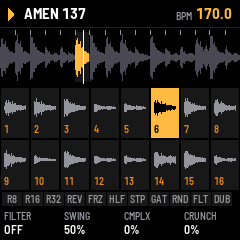
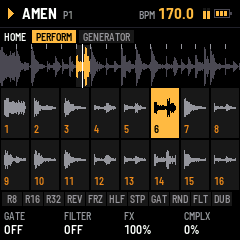
Docs: every screenshot from the current firmware, and a tool to keep it so
All 30 manual pictures, the README's two composites and the Firmware Hub card retaken
from the host scenarios, so they show the new header (and GLOBAL's SPLIT tab, the split's
pictures all AMEN + THINK). screen-reverb.png, an FX view that no longer exists and that
nothing linked to, removed. split.txt takes its layer before ALGORITHM changes the breaks.

tools/doc_shots.py: runs every scenario and refreshes each picture from its shot (MAP),
builds the composites and the card; --check lists stale ones (now: 33 pictures, 0 differ).

Claude-Session: https://claude.ai/code/session_01YWuRNsqx2jn29SjM4TGVKN

diff --git a/tools/doc_shots.py b/tools/doc_shots.py
@@ -1,0 +1,108 @@
+#!/usr/bin/env python3
+# SPDX-License-Identifier: MPL-2.0
+# The manual's and the README's screenshots, from the host scenarios: runs every tests/scenarios/*.txt in the host
+# simulator, then copies each picture the docs show from the scenario shot it comes from (MAP), builds the README's
+# two composites and the Firmware Hub card. Run it after any change to what the screen draws, so every picture shows
+# the same firmware. Needs ./build.sh --host first.
+#   tools/doc_shots.py            refresh them all
+#   tools/doc_shots.py --check    say which pictures differ from the shots, change nothing
+# Not from the scenarios (left alone): screen-demo.png (the demo's scenes side by side), screen-updating.png (the
+# update loader's screen).
+import os
+import subprocess
+import sys
+
+from PIL import Image, ImageChops
+
+ROOT = os.path.dirname(os.path.dirname(os.path.abspath(__file__)))
+SHOTS = os.path.join(ROOT, "app/build/scenarios")
+IMG = os.path.join(ROOT, "app/docs/img")
+HOST = os.path.join(ROOT, "app/build/host/choppah_host")
+
+# app/docs/img/<name>.png  <-  app/build/scenarios/<shot>.png (the scenario that takes it in the comment)
+MAP = {
+    "pad-dub": "p_dub",                  # pads.txt
+    "pad-roll-swell": "r_swell",         # pitch.txt
+    "pad-roll8": "p_roll8",              # pads.txt
+    "pad-stop": "p_stop",                # pads.txt
+    "screen-arp": "a_four",              # arp.txt
+    "screen-channel": "mm_channel_set",  # midimap.txt
+    "screen-fx-more": "v_eq_more",       # fxviews.txt
+    "screen-fx-tape": "v_tape",          # fxviews.txt
+    "screen-fxchain": "v_filter_mod",    # fxviews.txt
+    "screen-global": "m_clock_in",       # midi.txt
+    "screen-held": "u6_held",            # ui.txt
+    "screen-keyloop": "k_pingpong",      # keys.txt
+    "screen-kick": "k_playing",          # kick.txt
+    "screen-lobotomized": "r_lobotomized",   # reset.txt
+    "screen-mbcomp-band": "c_mb_low",    # mbcomp.txt
+    "screen-mbcomp-solo": "c_mb_solo",   # mbcomp.txt
+    "screen-mbcomp": "c_mb_amount",      # mbcomp.txt
+    "screen-mixer": "x_levels2",         # mixer.txt
+    "screen-perc": "p_playing",          # perc.txt
+    "screen-roll": "u7_roll",            # ui.txt
+    "screen-selhelp": "sel_help",        # controls.txt
+    "screen-seq": "q_hat",               # seq.txt
+    "screen-slicefx": "x_key_fx",        # slicefx.txt
+    "screen-slicer": "u5_playing",       # ui.txt
+    "screen-splash": "u0_splash",        # ui.txt
+    "screen-start": "u3_intro_full",     # ui.txt
+    "screen-tap": "t_tap_page",          # tap.txt
+    "screen-split": "sp_half_b",         # split.txt
+    "screen-split-global": "sp_on",      # split.txt
+    "screen-split-layer": "sp_layer",    # split.txt
+}
+# the README's composites (docs/img): tiles of 240 x 240, 10 apart on the site's grey
+COMPOSITES = {
+    "docs/img/screens.png": (3, ["u0_splash", "u3_intro_full", "u4_slicer_stopped", "u5_playing", "u6_held",
+                                 "u7_roll"]),
+    "docs/img/pads.png": (4, ["p_roll8", "p_rev", "p_frz", "p_stop", "p_gate", "p_rnd", "p_flt", "p_dub"]),
+}
+CARD = ("docs/img/card.png", "u5_playing")   # the Firmware Hub's card picture
+BG = (40, 40, 46)
+
+
+def shot(name):
+    return Image.open(os.path.join(SHOTS, name + ".png")).convert("RGB")
+
+
+def composite(cols, names):
+    rows = (len(names) + cols - 1) // cols
+    out = Image.new("RGB", (10 + cols * 250, 10 + rows * 250), BG)
+    for k, n in enumerate(names):
+        out.paste(shot(n), (10 + (k % cols) * 250, 10 + (k // cols) * 250))
+    return out
+
+
+def same(path, img):
+    if not os.path.exists(path):
+        return False
+    old = Image.open(path).convert("RGB")
+    return old.size == img.size and ImageChops.difference(old, img).getbbox() is None
+
+
+def main():
+    check = "--check" in sys.argv
+    if not os.path.exists(HOST):
+        sys.exit("doc_shots: no host simulator (./build.sh --host)")
+    os.makedirs(SHOTS, exist_ok=True)
+    scen = os.path.join(ROOT, "tests/scenarios")
+    for f in sorted(os.listdir(scen)):
+        if f.endswith(".txt"):
+            subprocess.run([HOST, os.path.join(scen, f), SHOTS], stdout=subprocess.DEVNULL,
+                           stderr=subprocess.DEVNULL)
+    want = {os.path.join(IMG, d + ".png"): shot(s) for d, s in MAP.items()}
+    for path, (cols, names) in COMPOSITES.items():
+        want[os.path.join(ROOT, path)] = composite(cols, names)
+    want[os.path.join(ROOT, CARD[0])] = shot(CARD[1])
+    changed = [p for p, img in want.items() if not same(p, img)]
+    for p in changed:
+        print(("differs " if check else "updated ") + os.path.relpath(p, ROOT))
+        if not check:
+            want[p].save(p)
+    print("doc_shots: %d pictures, %d %s" % (len(want), len(changed), "differ" if check else "updated"))
+    sys.exit(1 if check and changed else 0)
+
+
+if __name__ == "__main__":
+    main()

diff --git a/CLAUDE.md b/CLAUDE.md
@@ -98,7 +98,9 @@ while the app area is rewritten. It ships in the package, so it shows when that 
 (`app/site/site.css`; the installer and the emulator, fm1-base's pages, also `app/site/install.css` and
 `app/site/emu.css`: only their style, never their markup, ids or script) and puts the interactive control map (`app/site/controlmap.html`) into the manual's section
 "The control map". When a page's controls change, update that file's `PAGES` list with the manual. Manual screenshots
-come from the host scenarios (`app/build/scenarios/*.png`, copied into `app/docs/img`).
+come from the host scenarios: `tools/doc_shots.py` (after `./build.sh --host`) runs them all and refreshes every
+picture in `app/docs/img`, the README's composites and the Hub card (`docs/img`) from its `MAP`; run it after any
+change to what the screen draws (`--check` lists stale ones). A new picture in the docs gets a line in `MAP`.
 
 ## Commands
 
